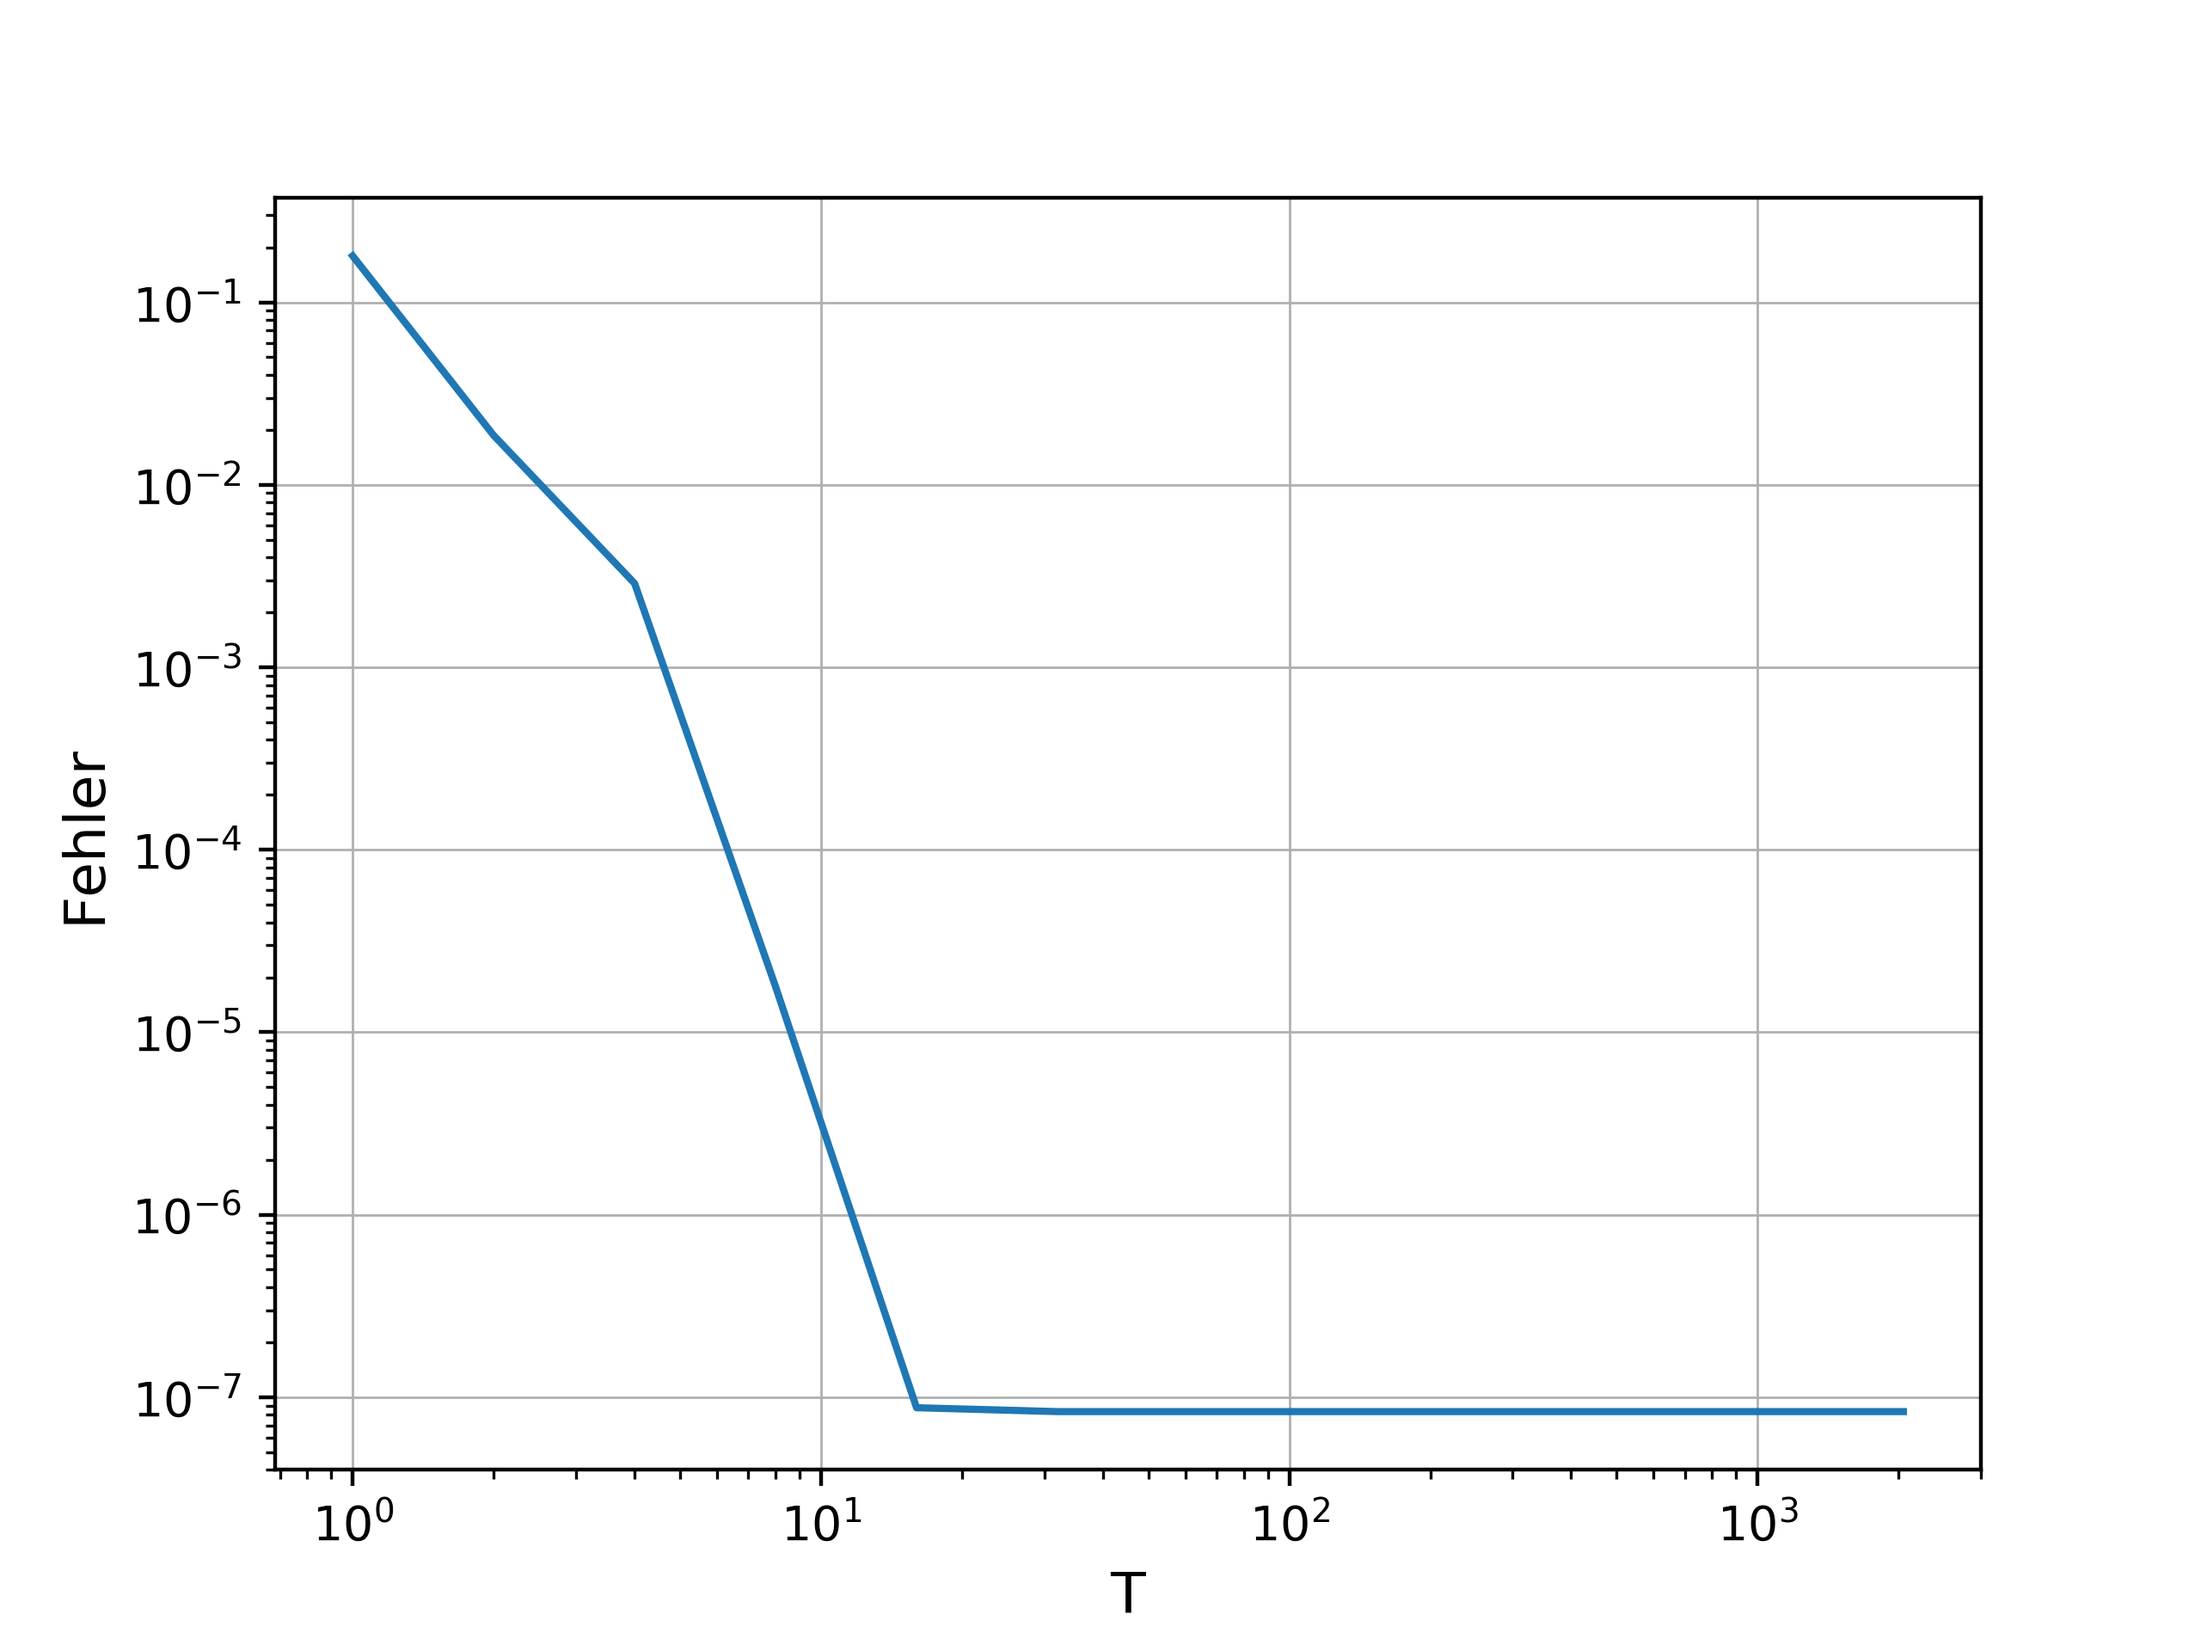
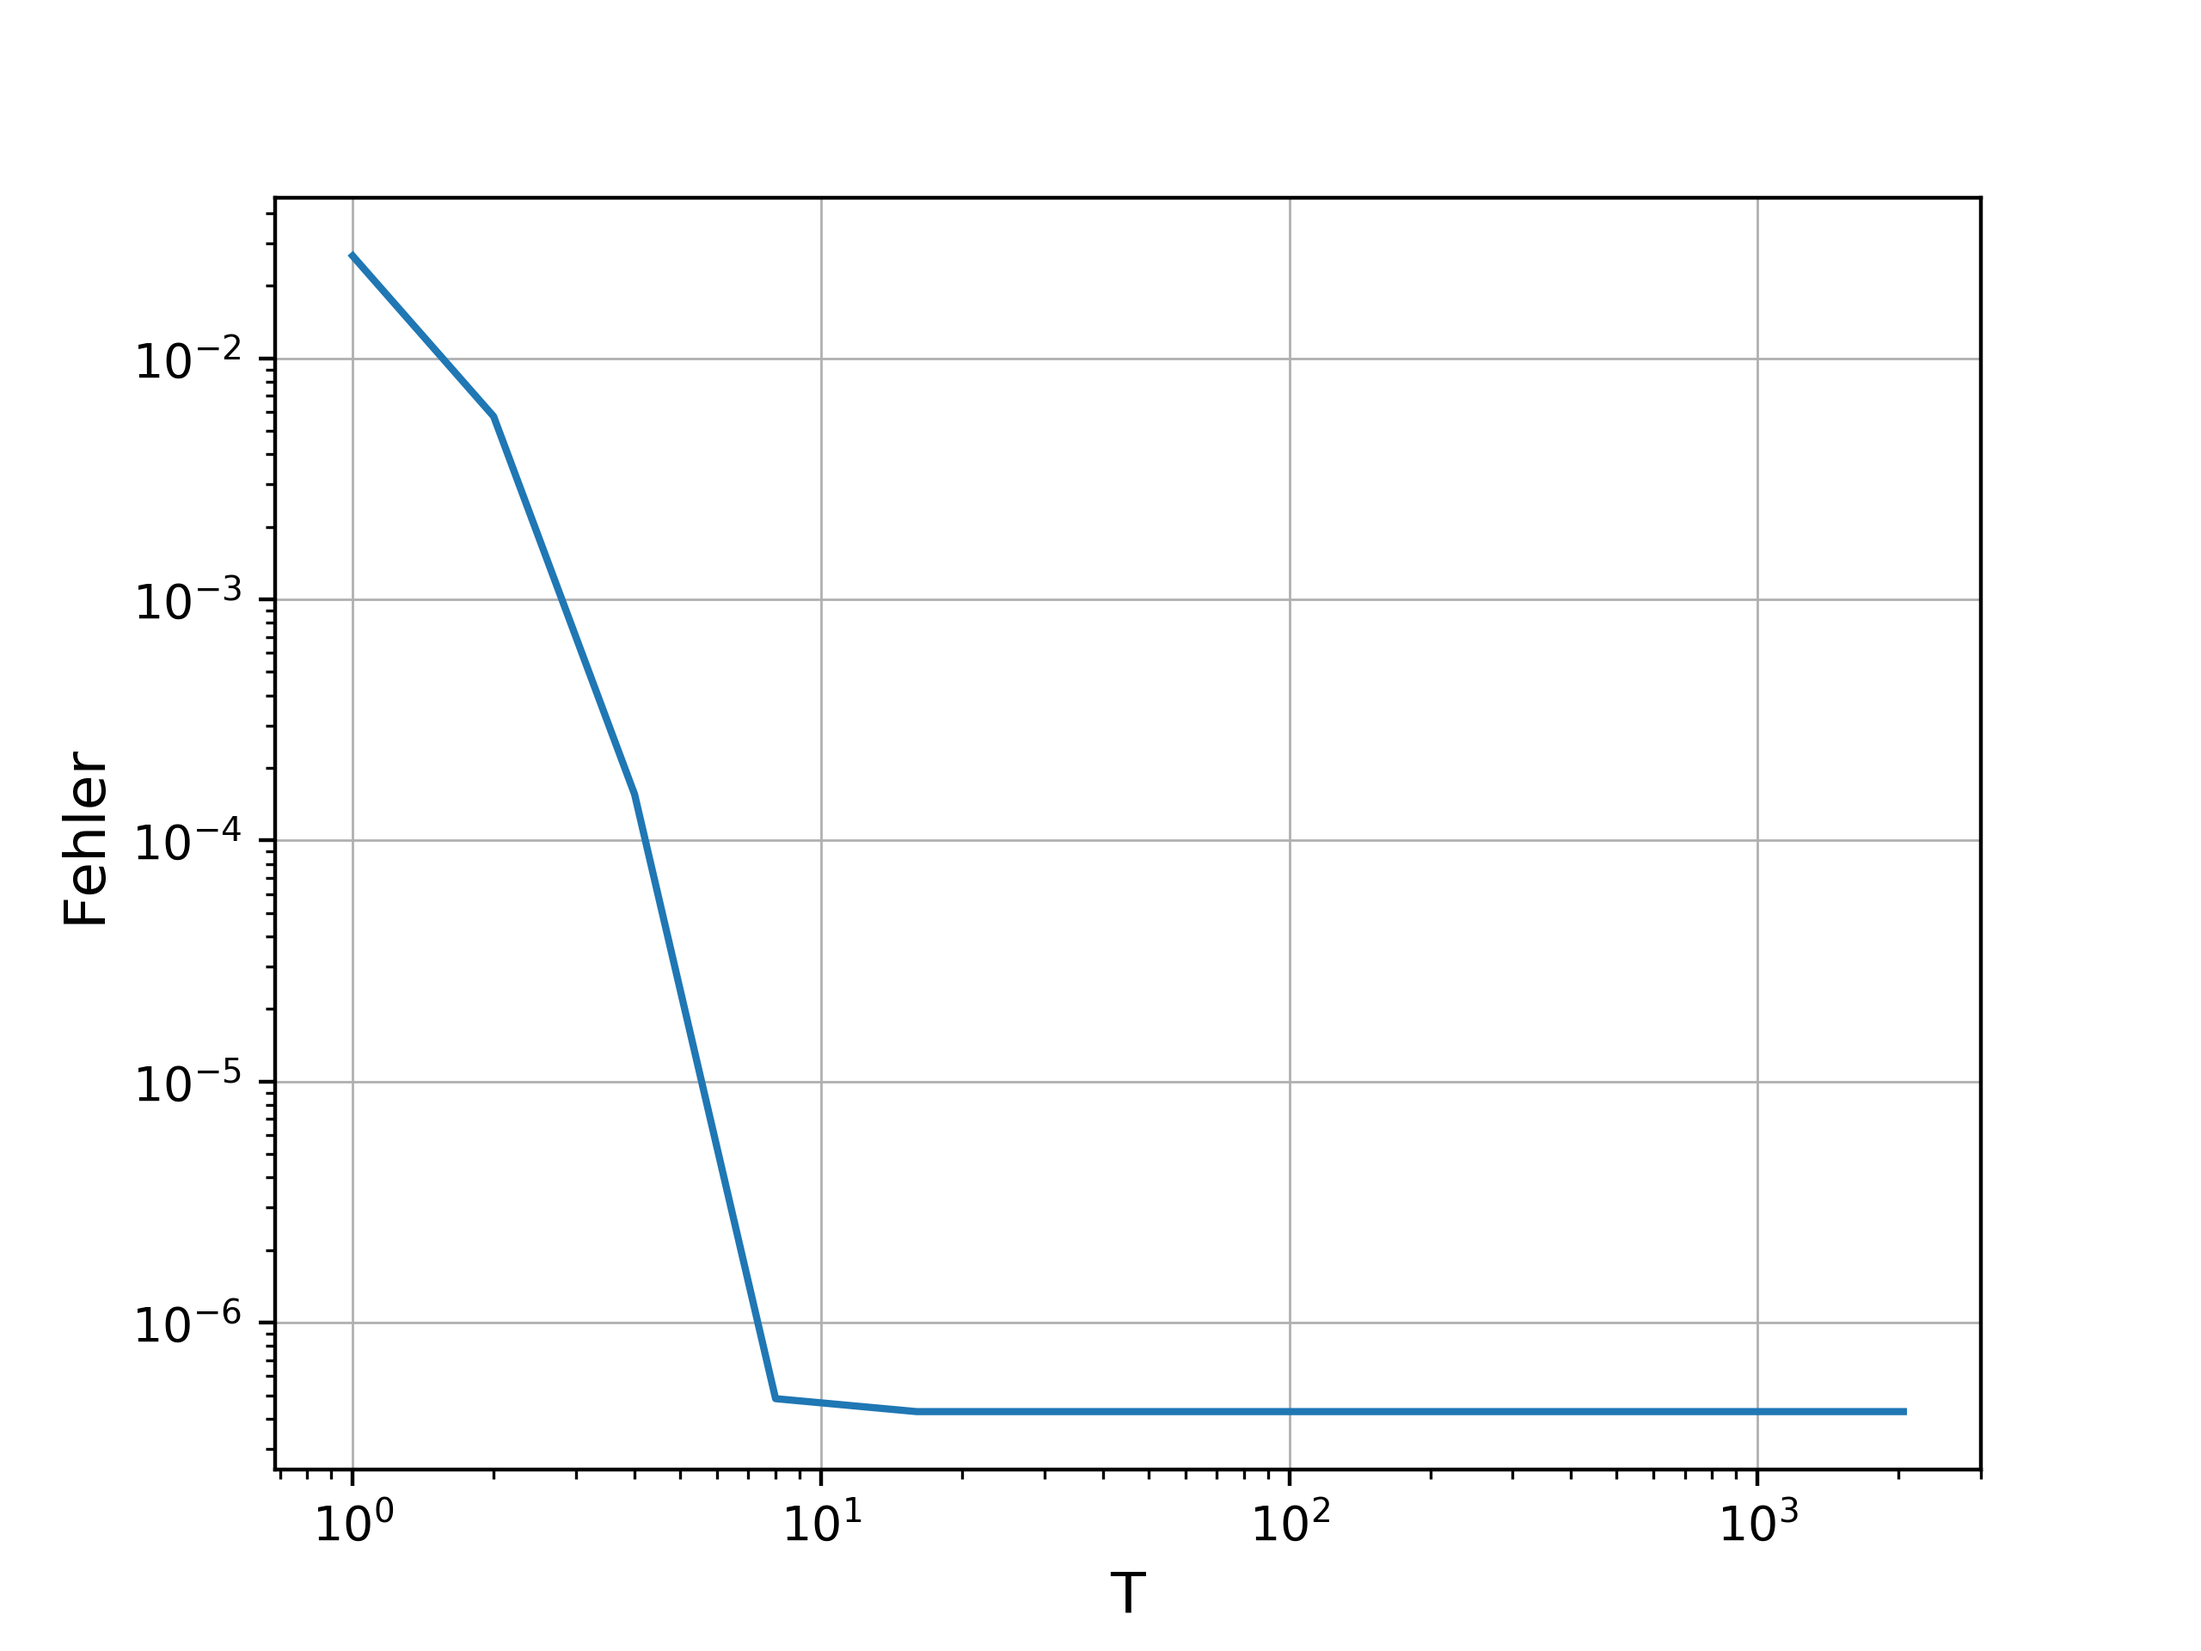
fehlerplots

diff --git a/latex/aufgabe1.tex b/latex/aufgabe1.tex
@@ -344,28 +344,41 @@ date=short                % Datumsformat
 	\end{myproof}
 	\newpage
 	\begin{mybeispiel}
-		Es wird T fix gewählt und der Fehler in Abhängigkeit von h geplottet mit der Funktion $f(x) := \frac{sin(x)}{x}$
+		Es wird T fix gewählt und der Fehler in Abhängigkeit von h geplottet
 		\lstinputlisting[language=Python, firstline = 4, lastline = 20, caption=Implementierung des Fehlers mit fixem T]{fehlerTsinx.py}
 		\begin{figure}[H]
-			\begin{center}
-				\includegraphics[width=0.8\textwidth]{FehlerplotT.png}
-			\end{center}
-			\caption{Fehlerplot in Abhängigkeit von h.}
-			\label{fig:fehlerplott}	
+			\begin{subfigure}[t]{0.5\textwidth}
+				\includegraphics[width=\linewidth]{FehlerplotTsinx.png}
+				\subcaption{$f(x) := \frac{sin(x)}{x}$} \label{fig:fehlerplottsinx}
+			\end{subfigure}
+			\begin{subfigure}[t]{0.5\textwidth}
+				\includegraphics[width=\linewidth]{FehlerplotTexp.png}
+				\subcaption{$f(x) := \frac{1}{e^{x}+7}$} \label{fig:fehlerplottexp}
+			\end{subfigure}
+			\caption{Fehlerplot abhängig von h.}
+			\label{fig:fehlerplott}
 		\end{figure}
 		\newpage
 		Um alles übersichtlicher zu machen, wird nun h fix gehalten und T variiert. 
 		\lstinputlisting[language=Python, firstline = 4, lastline = 20, caption=Implementierung des Fehlers mit fixem h]{fehlerhsinx.py} 	
 		\begin{figure}[H]
-			\begin{center}
-				\includegraphics[width=0.8\textwidth]{Fehlerploth.png}
-			\end{center}
-			\caption{Fehlerplot in Abhängigkeit von T.}
-			\label{fig:fehlerploth}	
+			\begin{subfigure}[t]{0.5\textwidth}
+				\includegraphics[width=\linewidth]{Fehlerplothsinx.png}
+				\subcaption{$f(x) := \frac{sin(x)}{x}$} \label{fig:fehlerplothsinx}
+			\end{subfigure}
+			\begin{subfigure}[t]{0.5\textwidth}
+				\includegraphics[width=\linewidth]{Fehlerplothexp.png}
+				\subcaption{$f(x) := \frac{1}{e^{x}+7}$} \label{fig:fehlerplothexp}
+			\end{subfigure}
+			\caption{Fehlerplot abhängig von T.}
+			\label{fig:fehlerploth}
 		\end{figure}
 		\newpage
-		Man sieht nun aus \cref{fig:fehlerplott}, dass bei kleiner werdenden h sich der Fehler ab einem gewissen Wert nicht mehr ändert. Das liegt daran, dass wir das Intervall $[0,\infty]$ auf $[0,T]$ beschränken und somit auch bei Verfeinerung von h sich der Fehler nicht mehr ändert, d.h. die maximale Genauigkeit der numerischen Integration ist erreicht worden. Dasselbe passiert auch in \cref{fig:fehlerploth}, nur dass hier bei einer fixen Schrittweite, sich der Fehler ab einem gewissen T bzw. ab einem gewissem n nicht mehr ändern wird. Um das exakte Integral zu bekommen, müsste man fordern, dass h $\rightarrow $0 und T $\rightarrow \infty$ strebt, da wir aber das Intervall abschneiden und eine Quadraturformel drauf anwenden, ist die nicht möglich, und uns genügt ein minimaler Fehler. Die beiden Plot ändern sich auch bei verschieden Funktionen nicht, das einzige was passiert, ist dass sich der Punkt an dem der Fehler sich nicht mehr ändert, sich nach links oder rechts verschiebt.  \\ \newline
-		\textbf{Bemerkung}: Damit der Fehler minimal ist, soll $\varepsilon_T \approx T\varepsilon_h$ gelten. D. h. bei einer gegebenen Anzahl an Funktionsauswertungen kann man T bzw. h wie im folgenden Plot gewählt. Anders angeschrieben soll also $h \approx \sqrt{\frac{12e^{-T}}{T}}$ bzw. $n \approx \sqrt{\frac{T^{3}}{12e^{-T}}}$ gelten.
+		Man sieht nun aus \cref{fig:fehlerplott}, wobei die gerade Funktion als Vergleich dient wie sich der Fehler verhalten sollte, dass bei kleiner werdenden h sich der Fehler ab einem gewissen Wert nicht mehr ändert. Das liegt daran, dass wir das Intervall $[0,\infty]$ auf $[0,T]$ beschränken und somit auch bei Verfeinerung von h sich der Fehler nicht mehr ändert, d.h. die maximale Genauigkeit der numerischen Integration ist erreicht worden, also man ist zum Fehler von T gelangt. Dasselbe passiert auch in \cref{fig:fehlerploth}, wobei die Vergleichsfunktion aus ästhetischen Gründen weggelassen wurde, nur dass hier bei einer fixen Schrittweite, sich der Fehler ab einem gewissen T bzw. ab einem gewissem n nicht mehr ändern wird. Um das exakte Integral zu bekommen, müsste man fordern, dass h $\rightarrow $0 und T $\rightarrow \infty$ strebt, da wir aber das Intervall abschneiden und eine Quadraturformel drauf anwenden, ist die nicht möglich, und uns genügt ein minimaler Fehler. Bei verschieden Funktionen ist das einzige was passiert, dass sich der Integrationsfehler ändert und der Punkt an dem der Fehler sich nicht mehr ändert, sich nach links oder rechts verschiebt, also der Graph ändert sich nicht.  
+		\begin{bemerkung}
+			Damit der Fehler minimal ist, soll $\varepsilon_T \approx T\varepsilon_h$ gelten. D. h. bei einer gegebenen Anzahl an Funktionsauswertungen kann man T bzw. h wie im folgenden Plot gewählt. Anders angeschrieben soll also $h \approx \sqrt{\frac{12e^{-T}}{T}}$ bzw. $n \approx \sqrt{\frac{T^{3}}{12e^{-T}}}$ gelten.
+		\end{bemerkung}
+		
 		\begin{figure}[H]
 			\begin{center}
 				\includegraphics[width=0.8\textwidth]{parameterth.png}

diff --git a/latex/parameter.py b/latex/parameter.py
@@ -9,20 +9,41 @@ import numpy as np
 from sympy import symbols, solve, exp
 import matplotlib.pylab as plt
 
+
+def f(x):
+    return np.sin(x)/x*np.exp(-x)
+
+def sumtrapez(t,h):
+    xs=np.arange(0,t,h)
+    fs=f(xs)
+    return h/2*(1+2*sum(fs[1:-1])+fs[-1]) # 1=f(0) stetig fortgesetzt
+
 n, t = symbols('n,t')
-n = 2**np.arange(10)
-T = []
+T = np.arange(1,50)
+h = []
 
-for i in n:
-    T.append((solve(t**3/(12*i**2)- exp(-t),t)))
+for i in T:
+    h.append(np.sqrt(12*np.exp(-i)/i))
     
-h=[]
-for i in n:
-    h.append((solve(t*i**2/(12)- exp(-t),t)))
+print(h)
+#h=[]
+#for i in n:
+#    h.append((solve(t*i**2/(12)- exp(-t),t)))
 
-plt.loglog(n,T)
-plt.loglog(n,h)
+n = []
+for i in T:
+    n.append(i/h[i-1])
+
+#print(n)
+
+error = []
+for i in T:
+    error.append(abs(np.pi/4-sumtrapez(i,h[i-1])))
+
+print(error)
+plt.loglog(n,error)
+#plt.loglog(n,h)
 plt.grid(which='major', linewidth=0.5)
 plt.xlabel('n', size='large')
-plt.legend('Th')
+plt.ylabel('Fehler', size='large')
 plt.show

diff --git a/latex/fehlerhsinx.py b/latex/fehlerhsinx.py
@@ -2,18 +2,18 @@ import numpy as np
 import matplotlib.pylab as plt
 
 def f(x):
-    return np.sin(x)/x*np.exp(-x)
+    return 1/(np.exp(x)+7)*np.exp(-x)
 
 def sumtrapez(t,h):
     xs=np.arange(0,t,h)
     fs=f(xs)
-    return h/2*(1+2*sum(fs[1:-1])+fs[-1]) # 1=f(0) stetig fortgesetzt
+    return h/2*(fs[0]+2*sum(fs[1:-1])+fs[-1])
 
 h=0.001
 errors =[]
 T = 2**np.arange(12)
 for t in T:
-    errors.append(abs(np.pi/4-sumtrapez(t,h)))
+    errors.append(abs(0.10042-sumtrapez(t,h)))
 plt.loglog(T,errors)
 plt.grid(which='major', linewidth=0.5)
 plt.xlabel('T', size='large')

diff --git a/code/aufgabee/main.cpp b/code/aufgabee/main.cpp
@@ -1,0 +1,27 @@
+#include <iostream>
+#include <cmath>
+
+using namespace std;
+double f(double);
+double h(double);
+
+int main()
+{
+    cout << f(1) << endl;
+    return 0;
+}
+
+double f(double x)
+{
+    if(x == 0)
+        return 1;
+    else
+        return (sin(x)/x)*exp(-x);
+}
+
+double h(double n)
+{
+    return solve
+}
+
+

diff --git a/latex/fehlerTsinx.py b/latex/fehlerTsinx.py
@@ -15,6 +15,7 @@ hs = 1/2**np.arange(15)
 for h in hs:
     errors.append(abs(np.pi/4-sumtrapez(T,h)))
 plt.loglog(hs,errors)
+plt.loglog(hs,hs**2)
 plt.grid(which='major', linewidth=0.5)
 plt.xlabel('h', size='large')
 plt.ylabel('Fehler', size='large')

diff --git a/latex/aufgabee.py b/latex/aufgabee.py
@@ -18,8 +18,8 @@ def sumtrapez(t,h):
     fs=f(xs)
     return h/2*(1+2*sum(fs[1:-1])+fs[-1]) # 1=f(0) stetig fortgesetzt
 
-n, t = symbols('n,t')
-n = np.arange(1,11,1)
+#n, t = symbols('n,t')
+#n = np.arange(1,100,1)
 
 T = 100
 
